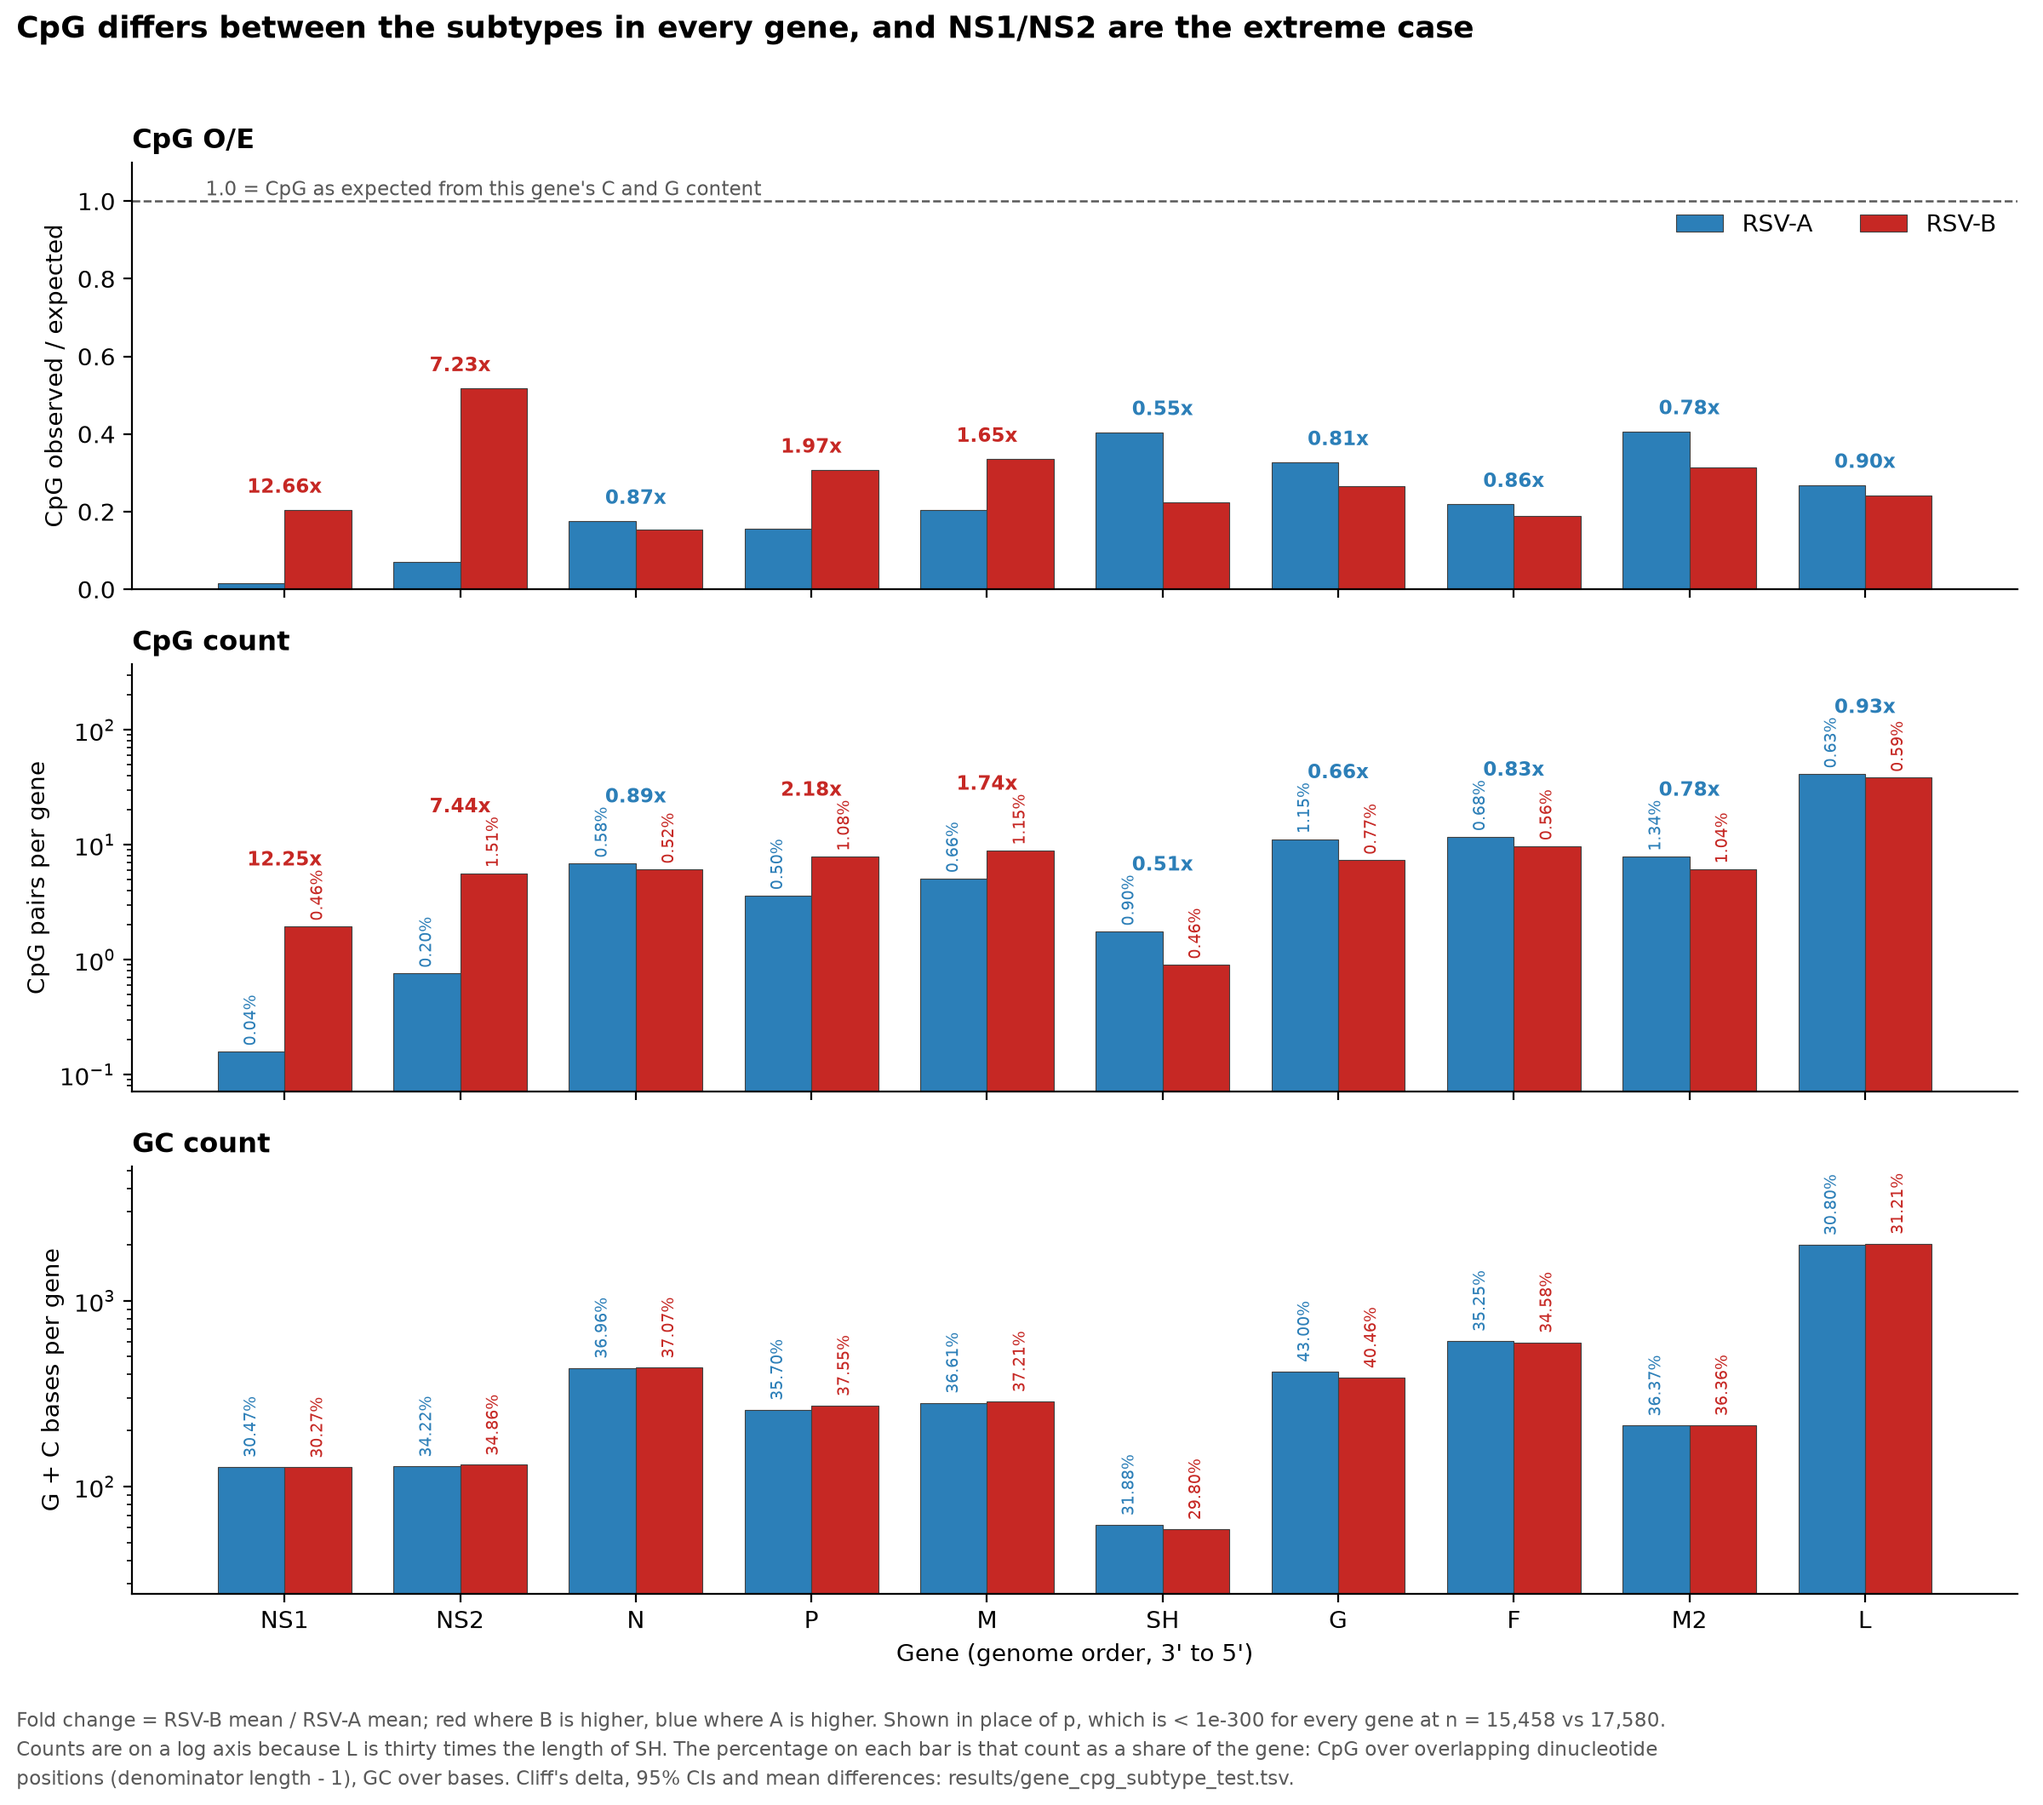
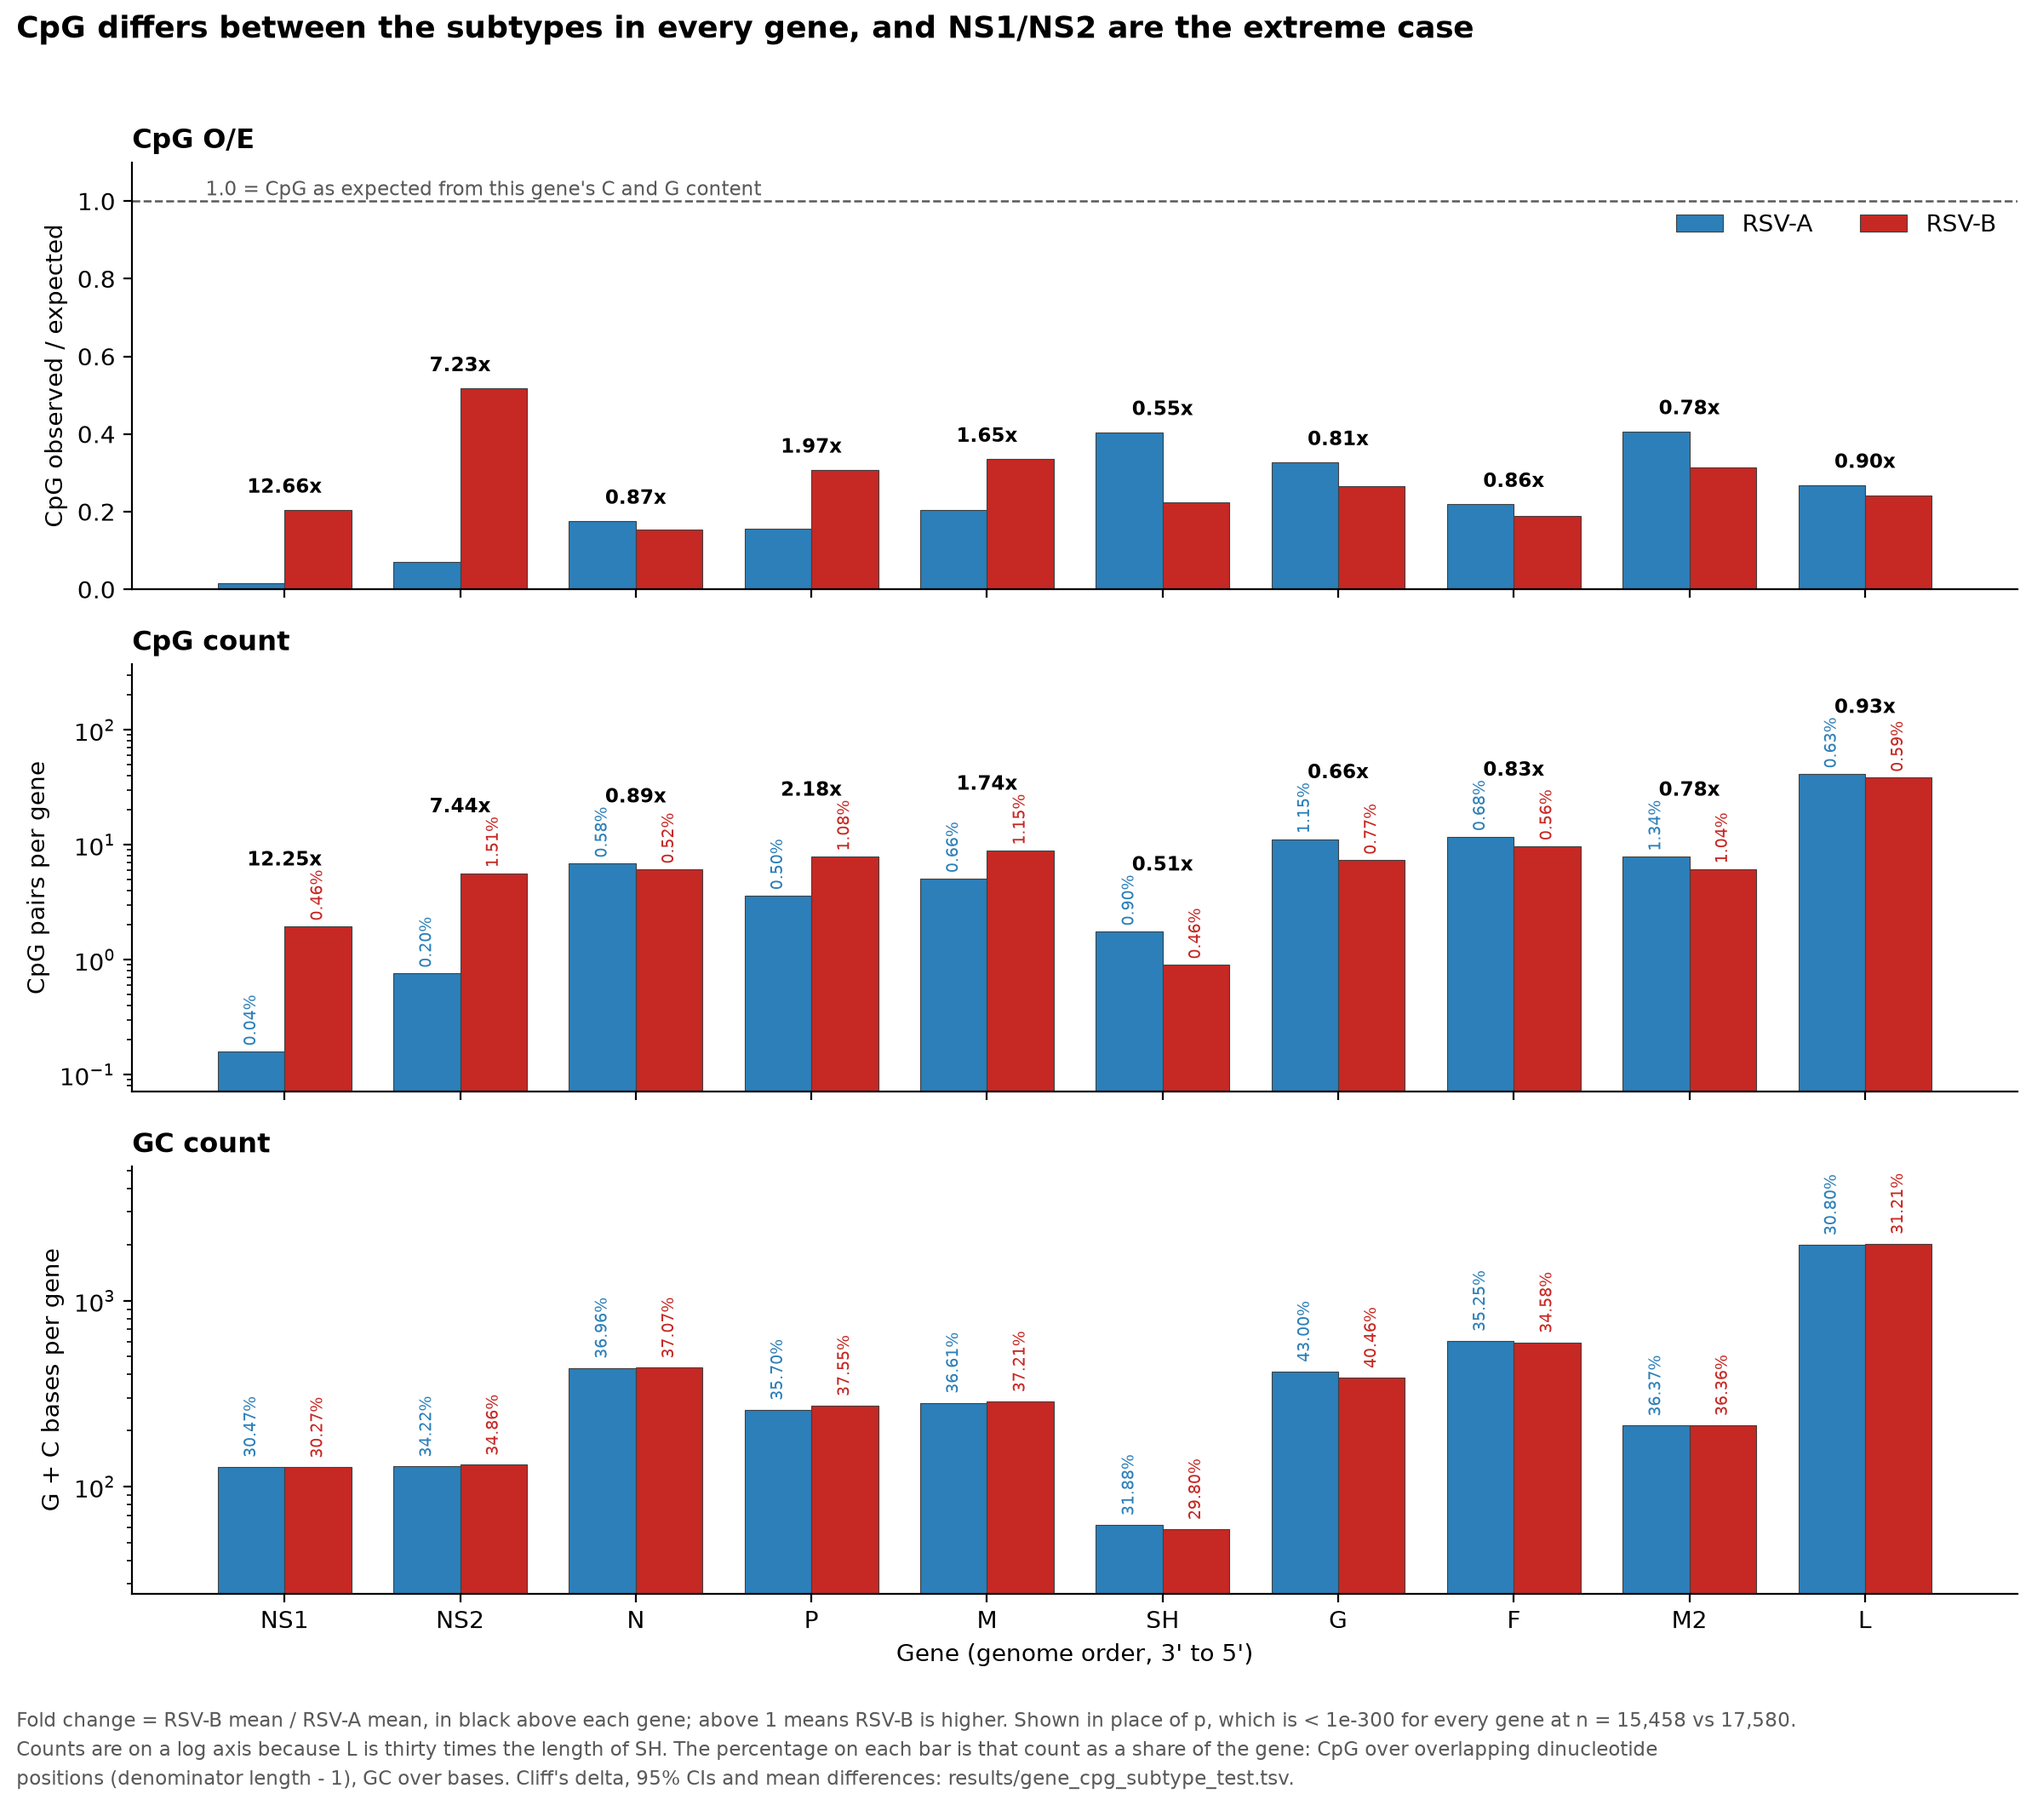
Print figure 6 fold changes in black
The fold change was coloured red or blue by direction, duplicating what the
number already says and competing with the bar colours, which carry the
subtype. Black separates the annotation layer from the data layer. Figure
caption and textbook updated: direction is now read from the value against 1,
not from the colour.

diff --git a/docs/rsv-textbook-zh.html b/docs/rsv-textbook-zh.html
@@ -638,7 +638,7 @@
 <p>它根本不是時間上的,而是基因之間和亞型之間的差異。</p>
 <figure>
   <img src="figures/r6.png" alt="三層長條圖,橫軸是十個基因,兩個亞型並列:上層是 CpG 的 observed/expected 比值並畫出 1.0 參考線,中層是每條基因的 CpG 數量(對數刻度),下層是每條基因的 G 加 C 鹼基數量(對數刻度)。每條長條上標示該數量佔基因的百分比,CpG 兩層另外標示 B/A 倍數。">
-  <figcaption><b>圖 11.</b> 全部十個基因,三個尺度一起看。<b>上層 CpG O/E</b>:虛線 1.0 代表「照這條基因自己的 C 和 G 含量,應該有的 CpG 數量」。<strong>所有基因、兩個亞型,全部遠低於 1.0</strong> —— CpG 在整條基因組都被壓抑,不是只有某幾條基因。<b>中層 CpG 數量</b>:每條基因平均有幾個 CpG。<b>下層 GC 數量</b>:每條基因平均有幾個 G 或 C 鹼基,作為對照。兩層數量都用對數刻度,因為 L 的長度是 SH 的三十倍,用線性刻度會把所有短基因壓扁。每條長條上的百分比就是該數量佔基因的比例(CpG 的分母是二核苷酸位置數即「長度 − 1」,GC 的分母是鹼基數),所以同一張圖同時讀得到「有多少」和「多密」。CpG 兩層標示的是 <strong>B/A 倍數</strong>:紅色代表 B 較高,藍色代表 A 較高。GC 那層沒有標倍數,因為百分比本身已經說明問題 —— <strong>兩個亞型的 GC 百分比幾乎一模一樣(倍數全部在 0.93–1.05 之間),CpG 卻可以差到 12 倍</strong>,所以亞型差異不可能是 GC 含量造成的副作用。這裡不報 p 值:在 15,458 對 17,580 的樣本數下,<strong>每一條基因的 p 都小於 1e-300</strong>,連 N 基因那種 0.89 倍的微小差距也一樣 —— p 值完全沒有鑑別力。Cliff's delta 和 95% 信賴區間在結果表裡。</figcaption>
+  <figcaption><b>圖 11.</b> 全部十個基因,三個尺度一起看。<b>上層 CpG O/E</b>:虛線 1.0 代表「照這條基因自己的 C 和 G 含量,應該有的 CpG 數量」。<strong>所有基因、兩個亞型,全部遠低於 1.0</strong> —— CpG 在整條基因組都被壓抑,不是只有某幾條基因。<b>中層 CpG 數量</b>:每條基因平均有幾個 CpG。<b>下層 GC 數量</b>:每條基因平均有幾個 G 或 C 鹼基,作為對照。兩層數量都用對數刻度,因為 L 的長度是 SH 的三十倍,用線性刻度會把所有短基因壓扁。每條長條上的百分比就是該數量佔基因的比例(CpG 的分母是二核苷酸位置數即「長度 − 1」,GC 的分母是鹼基數),所以同一張圖同時讀得到「有多少」和「多密」。CpG 兩層在每條基因上方用黑字標示 <strong>B/A 倍數</strong>:大於 1 代表 RSV-B 較高,小於 1 代表 RSV-A 較高。GC 那層沒有標倍數,因為百分比本身已經說明問題 —— <strong>兩個亞型的 GC 百分比幾乎一模一樣(倍數全部在 0.93–1.05 之間),CpG 卻可以差到 12 倍</strong>,所以亞型差異不可能是 GC 含量造成的副作用。這裡不報 p 值:在 15,458 對 17,580 的樣本數下,<strong>每一條基因的 p 都小於 1e-300</strong>,連 N 基因那種 0.89 倍的微小差距也一樣 —— p 值完全沒有鑑別力。Cliff's delta 和 95% 信賴區間在結果表裡。</figcaption>
 </figure>
 <div class="key">
   <p class="lbl">兩個技術問題,值得講清楚</p>

diff --git a/scripts/plot_subtype_contrast.py b/scripts/plot_subtype_contrast.py
@@ -122,8 +122,7 @@ for ax, (col, short, ylab, pct_col, log) in zip(axes, METRICS):
         for xi, gn in zip(x, GENES):
             r, y = sub.loc[gn], hi[gn]
             ax.text(xi, y * 3.4 if log else y + .045, f"{r.fold_B_over_A:.2f}x",
-                    ha="center", fontsize=8.2, weight="bold",
-                    color=PAL["B"] if r.fold_B_over_A > 1 else PAL["A"])
+                    ha="center", fontsize=8.2, weight="bold", color="black")
 
 # O/E has an absolute reference: 1.0 means "as expected from this gene's own base content"
 axes[0].axhline(1, ls="--", lw=.9, color="0.35")
@@ -136,7 +135,7 @@ axes[2].set_xlabel("Gene (genome order, 3' to 5')")
 fig.suptitle("CpG differs between the subtypes in every gene, and NS1/NS2 are the extreme case",
              fontsize=13, weight="bold", x=.008, y=.992, ha="left")
 fig.text(.008, .006,
-         "Fold change = RSV-B mean / RSV-A mean; red where B is higher, blue where A is higher. "
+         "Fold change = RSV-B mean / RSV-A mean, in black above each gene; above 1 means RSV-B is higher. "
          "Shown in place of p, which is < 1e-300 for every gene at n = 15,458 vs 17,580.\n"
          "Counts are on a log axis because L is thirty times the length of SH. The percentage on each bar is that "
          "count as a share of the gene: CpG over overlapping dinucleotide\npositions (denominator length - 1), GC over bases. "
